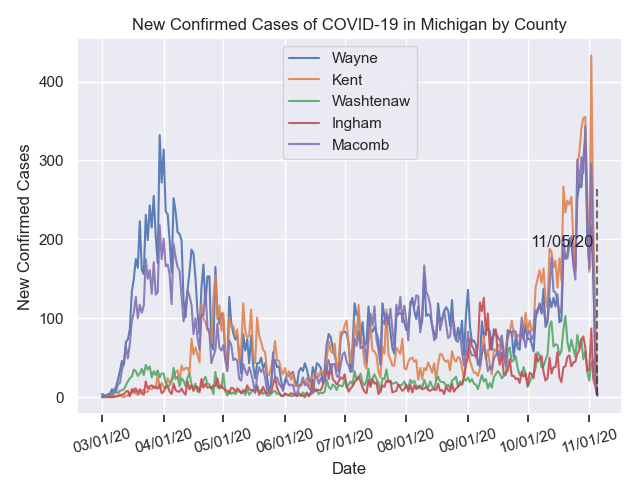
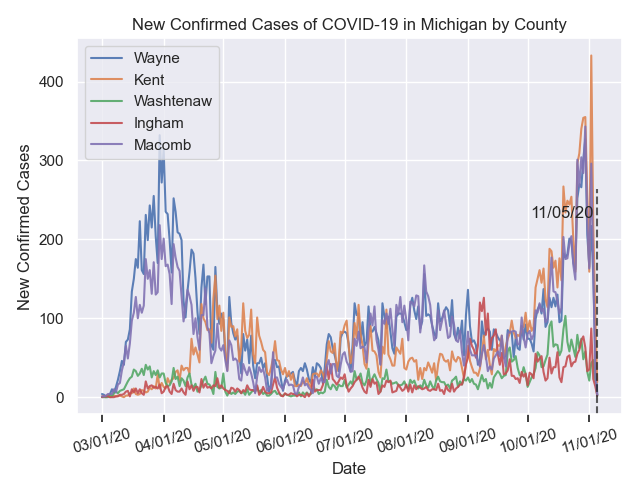
set fixed location for covid graph legend

diff --git a/assets/update.py b/assets/update.py
@@ -323,10 +323,7 @@ class CSE231GitHub(object):
         return (fill_w * self.progressbar['fill']) + (empty_w * self.progressbar['empty'])
 
     def __update_plot(self) -> None:
-        soup = BeautifulSoup(
-            urlopen('https://www.michigan.gov/coronavirus/0,9753,7-406-98163_98173---,00.html'), 
-            features='html.parser'
-        )
+        soup = BeautifulSoup(urlopen('https://www.michigan.gov/coronavirus/0,9753,7-406-98163_98173---,00.html'), features='html.parser')
 
         filename = 'assets/covid_data.xlsx'
 
@@ -357,15 +354,15 @@ class CSE231GitHub(object):
 
             ax.plot_date(dates, cases, '-', label=county, alpha=0.9)
 
-        ax.axvline(x=d2, ymin=0.05, ymax=0.6, alpha=0.6, color='k', linestyle='--')
-        ax.text(x=d2 - timedelta(2), y=190, s=d2.strftime('%m/%d/%y'), ha='right')
+        ax.axvline(x=d2, ymin=0, ymax=0.6, alpha=0.7, color='k', linestyle='--')
+        ax.text(x=d2 - timedelta(2), y=ax.get_ylim()[1] / 2, s=d2.strftime('%m/%d/%y'), ha='right')
 
         ax.xaxis.set_major_formatter(DateFormatter('%m/%d/%y'))
         ax.tick_params(axis='x', top=False, reset=True)
         ax.set_title('New Confirmed Cases of COVID-19 in Michigan by County')
         ax.set_xlabel('Date')
         ax.set_ylabel('New Confirmed Cases')
-        ax.legend()
+        ax.legend(loc=2)
 
         plt.tight_layout()
         plt.xticks(rotation=15)
@@ -462,6 +459,6 @@ if __name__ == "__main__":
     github = CSE231GitHub()
 
     # github.package('lab')
-    # github.update_readme()
+    github.update_readme()
     # github.update_project_files(True)
-    github.update_all(True)
+    # github.update_all(True)

diff --git a/README.md b/README.md
@@ -50,7 +50,7 @@ Your co-pilot on this expedition through CSE231 will be the course schedule, whi
 
 ## Course Schedule
 
-Last Refresh: 11/05/2020 09:30 PM EST
+Last Refresh: 11/05/2020 09:44 PM EST
 
 The assignments listed on the schedule have links to the corresponding website they are hosted on. Links to Mimir and D2L assignments are not direct because a login is required. You can hover over the assignment's text to see its precise due date (sorry mobile users).
 
